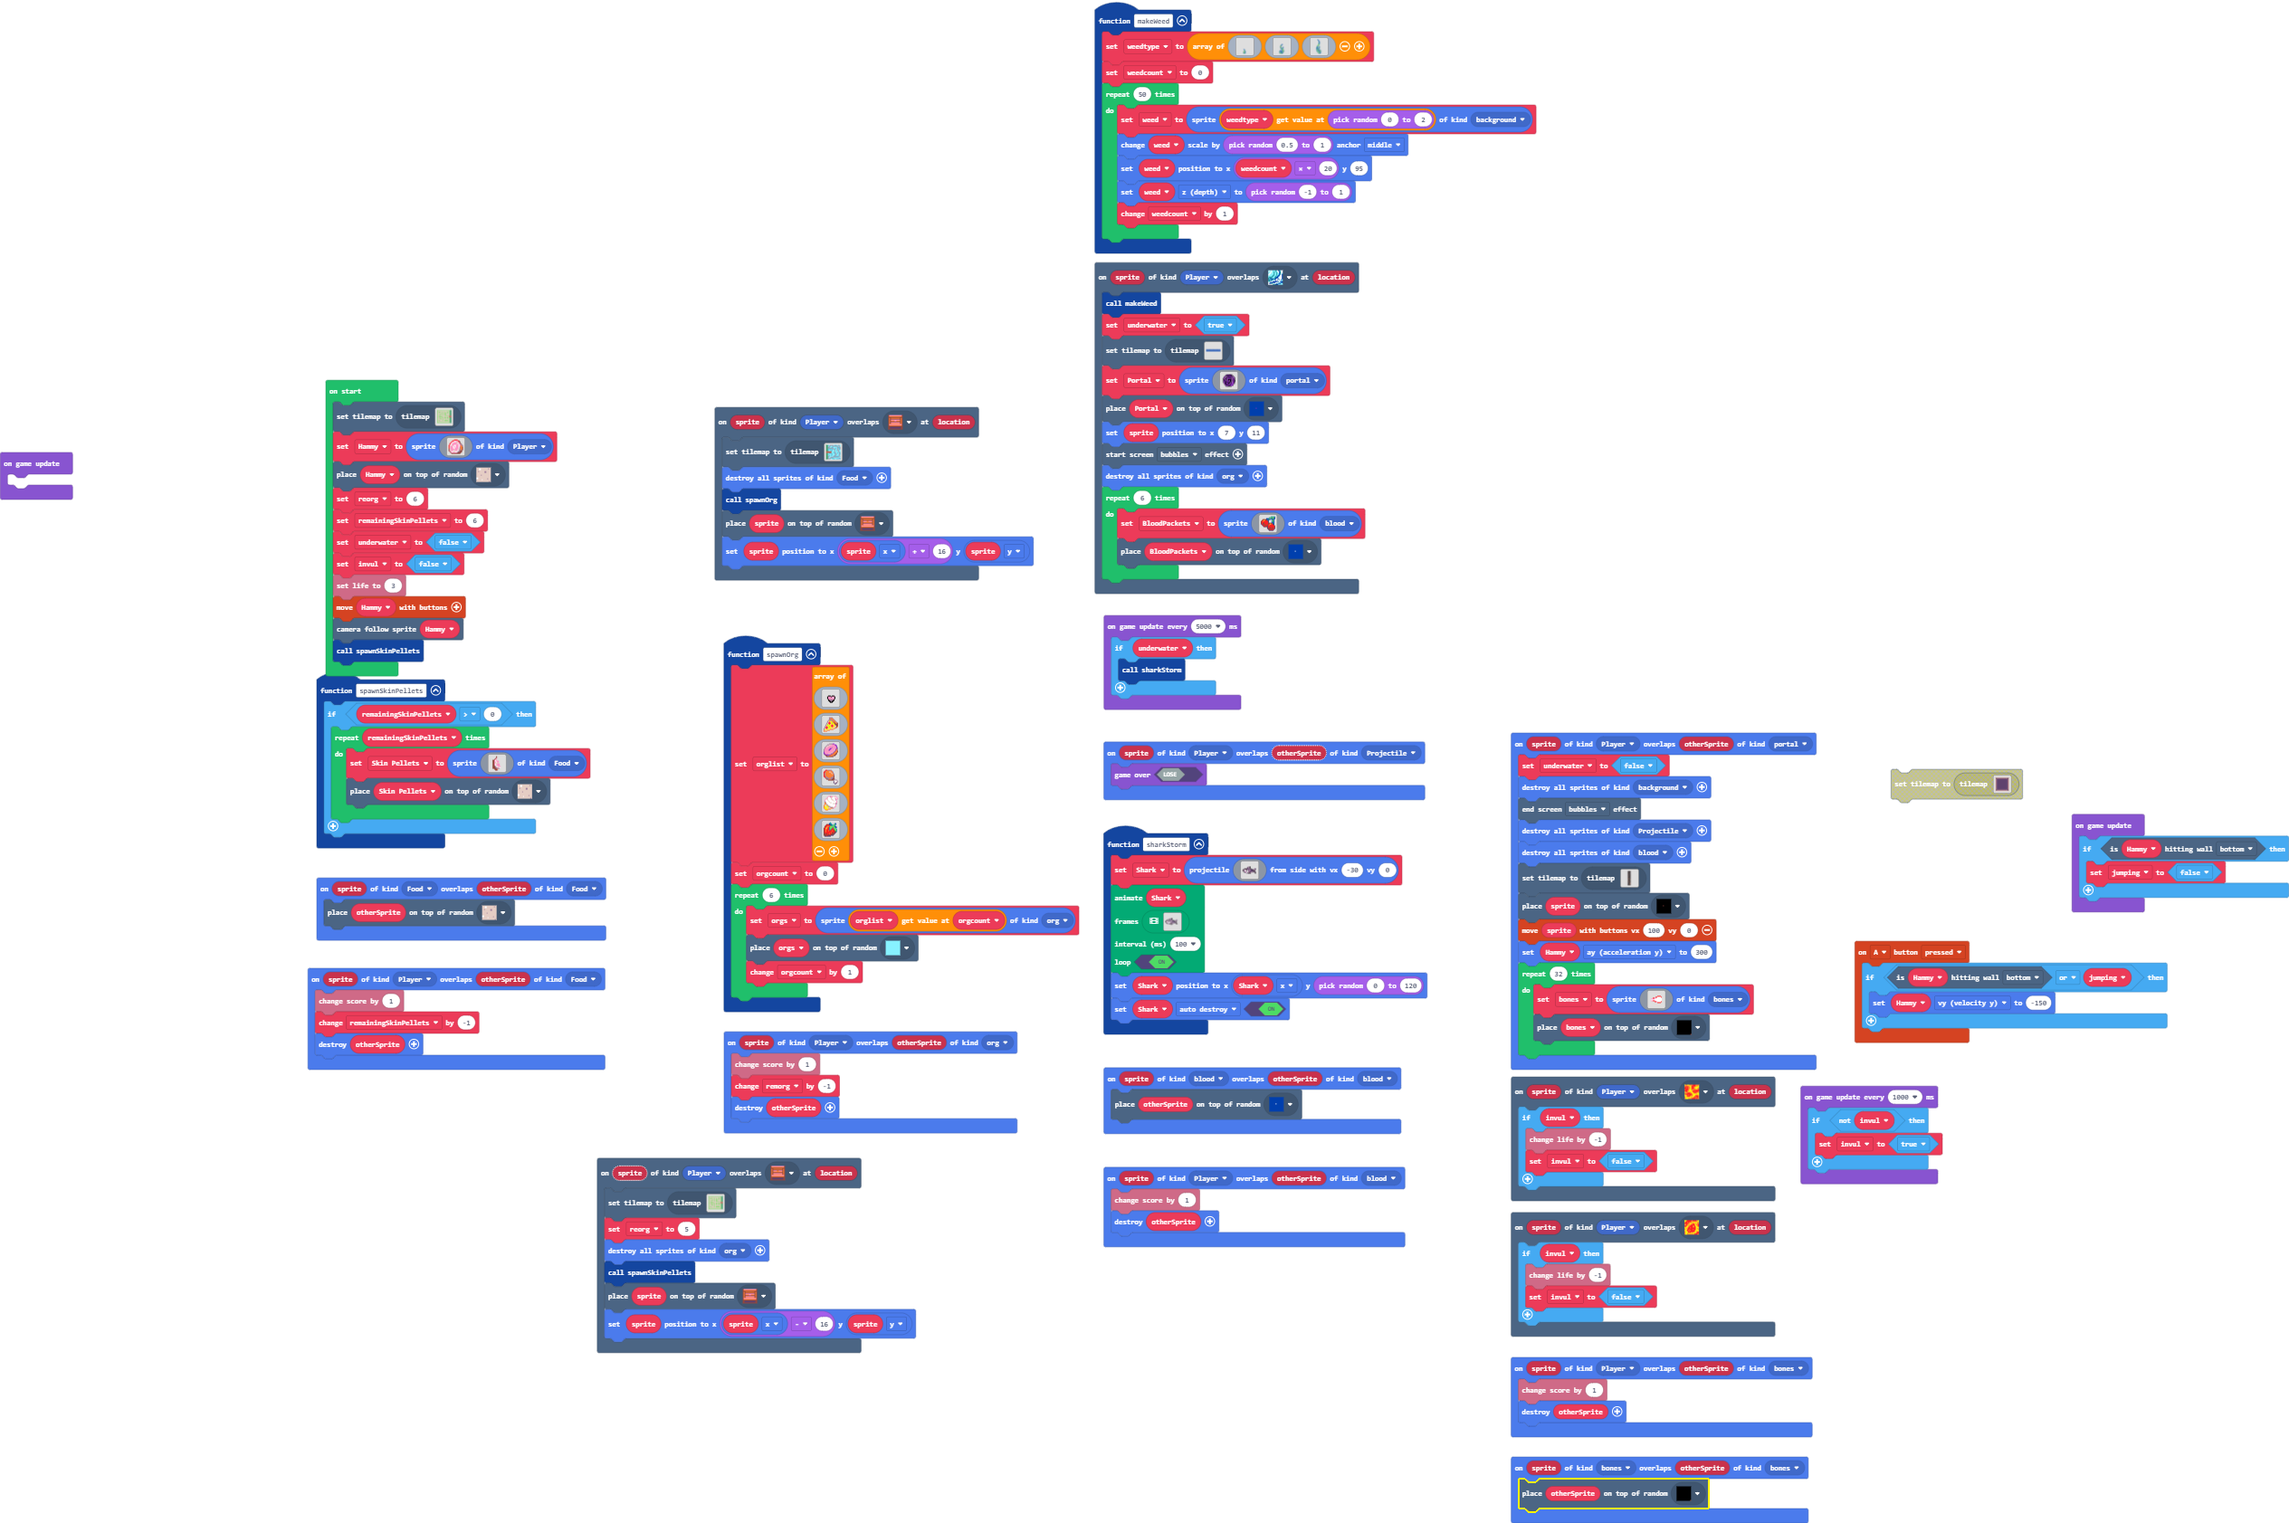
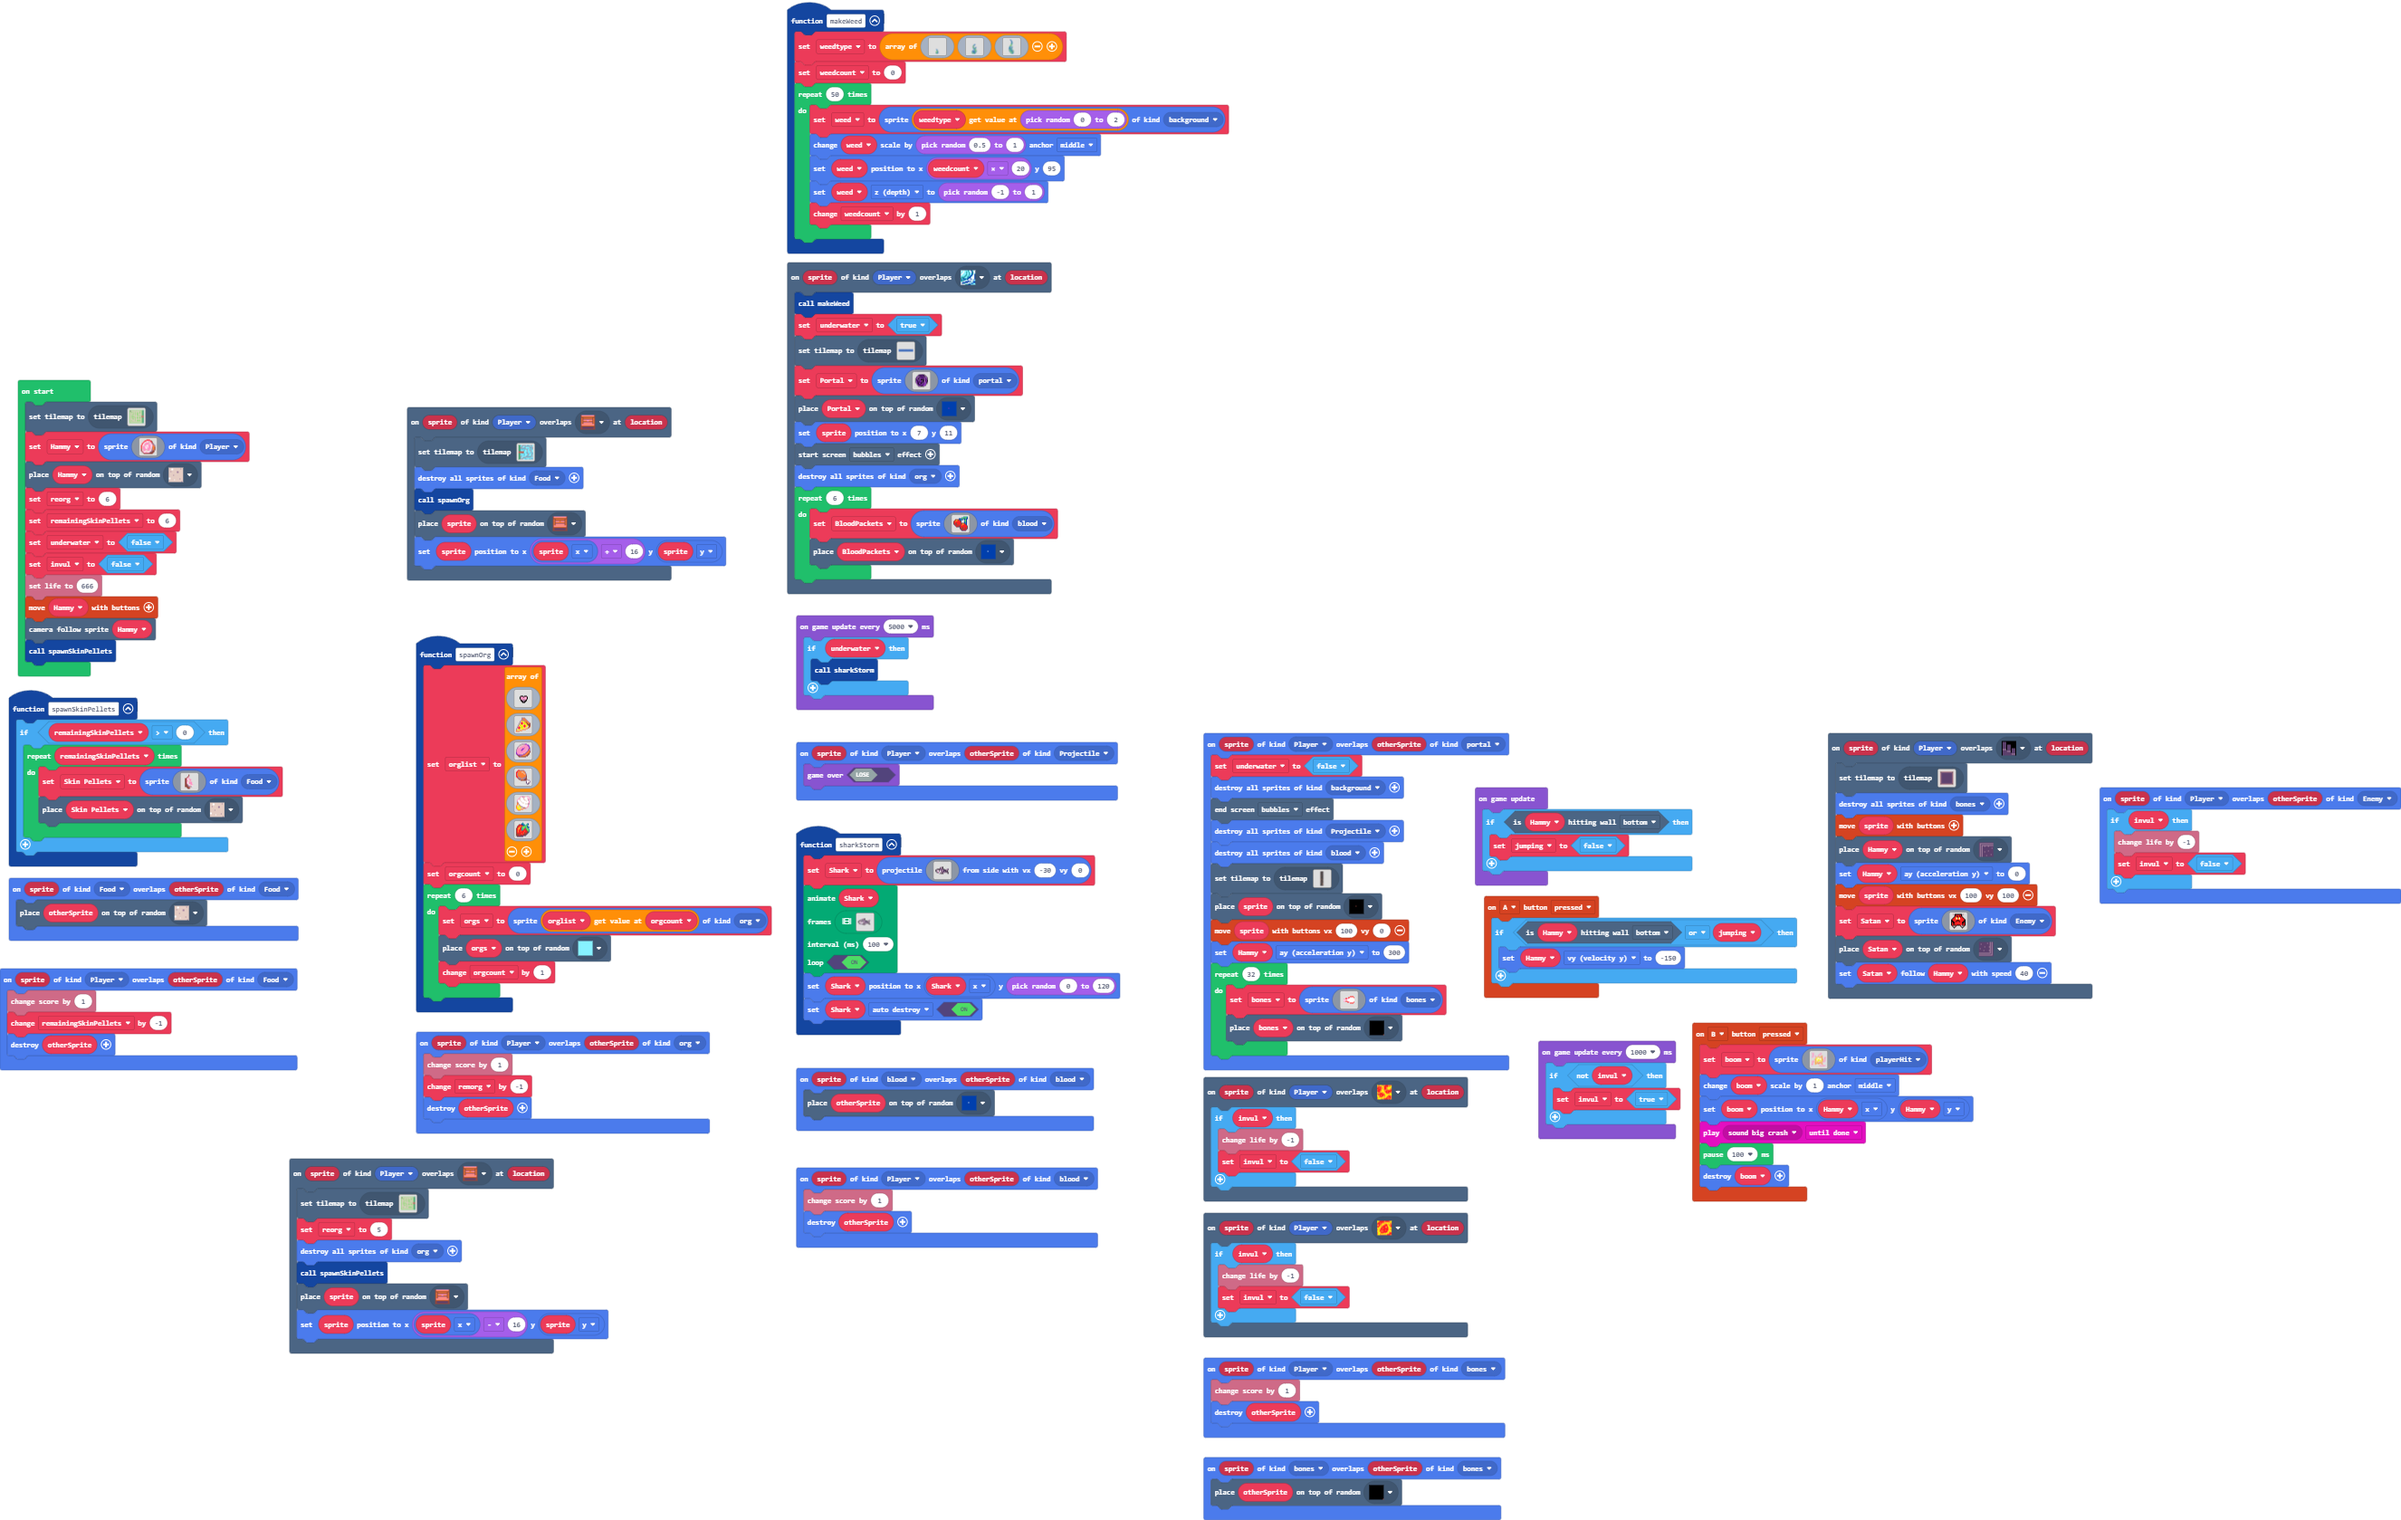
Update main.blocks, main.ts, tilemap.g.jres, tilemap.g.ts

diff --git a/tilemap.g.ts b/tilemap.g.ts
@@ -64,6 +64,14 @@ namespace myTiles {
     export const tile31 = image.ofBuffer(hex``);
     //% fixedInstance jres blockIdentity=images._tile
     export const tile12 = image.ofBuffer(hex``);
+    //% fixedInstance jres blockIdentity=images._tile
+    export const tile32 = image.ofBuffer(hex``);
+    //% fixedInstance jres blockIdentity=images._tile
+    export const tile33 = image.ofBuffer(hex``);
+    //% fixedInstance jres blockIdentity=images._tile
+    export const tile34 = image.ofBuffer(hex``);
+    //% fixedInstance jres blockIdentity=images._tile
+    export const tile35 = image.ofBuffer(hex``);
 
     helpers._registerFactory("tilemap", function(name: string) {
         switch(helpers.stringTrim(name)) {
@@ -86,25 +94,6 @@ namespace myTiles {
 . . . . . . . . . . . . . . . . 
 . . . . . . . . . . . . . . . . 
 `, [myTiles.transparency16], TileScale.Sixteen);
-            case "level1":
-            case "level1":return tiles.createTilemap(hex`12001000010101010101010101010101010101010303010202020202020202020202020202010303010201010201020102010202010102010303010201010201020102010102010102010303010202020201020102010102010202010303010201010101020102010102020202010303010202020202020102010101010102010303010201010101020202020202020202040405010201010101010102010102010102040405010202020202020102010102010102010303010201010101020102010102010102010303010202020101020102020202020202010303010201020202020102010101010102010303010201010201020102010101010102010303010202020202020202020202020202010303010101010101010101010101010101010303`, img`
-2 2 2 2 2 2 2 2 2 2 2 2 2 2 2 2 2 2 
-2 . . . . . . . . . . . . . . 2 2 2 
-2 . 2 2 . 2 . 2 . 2 . . 2 2 . 2 2 2 
-2 . 2 2 . 2 . 2 . 2 2 . 2 2 . 2 2 2 
-2 . . . . 2 . 2 . 2 2 . 2 . . 2 2 2 
-2 . 2 2 2 2 . 2 . 2 2 . . . . 2 2 2 
-2 . . . . . . 2 . 2 2 2 2 2 . 2 2 2 
-2 . 2 2 2 2 . . . . . . . . . . . . 
-2 . 2 2 2 2 2 2 . 2 2 . 2 2 . . . . 
-2 . . . . . . 2 . 2 2 . 2 2 . 2 2 2 
-2 . 2 2 2 2 . 2 . 2 2 . 2 2 . 2 2 2 
-2 . . . 2 2 . 2 . . . . . . . 2 2 2 
-2 . 2 . . . . 2 . 2 2 2 2 2 . 2 2 2 
-2 . 2 2 . 2 . 2 . 2 2 2 2 2 . 2 2 2 
-2 . . . . . . . . . . . . . . 2 2 2 
-2 2 2 2 2 2 2 2 2 2 2 2 2 2 2 2 2 2 
-`, [myTiles.transparency16,sprites.castle.tileGrass2,sprites.castle.tilePath5,sprites.builtin.forestTiles0,sprites.dungeon.stairLadder,myTiles.tile3], TileScale.Sixteen);
             case "level5":
[1 lines of base64/hex data omitted]
 . . . . . . . . . . . . . . . . 
@@ -244,7 +233,7 @@ namespace myTiles {
 . . . . . . . . . . . . . . . . 
 `, [myTiles.transparency16], TileScale.Sixteen);
             case "level4":
[2 lines of base64/hex data omitted]
 ................
 ................
 2222222.........
@@ -325,7 +314,28 @@ namespace myTiles {
 ........222222..
 .22.............
 .....22222222..2
-`, [myTiles.transparency16,sprites.builtin.forestTiles10,sprites.builtin.forestTiles5,sprites.builtin.forestTiles7,sprites.builtin.forestTiles6,sprites.builtin.forestTiles9,sprites.builtin.forestTiles11,sprites.builtin.forestTiles13,myTiles.tile11,sprites.builtin.forestTiles8,sprites.builtin.forestTiles12,sprites.dungeon.hazardLava0,sprites.dungeon.hazardLava1,myTiles.tile12], TileScale.Sixteen);
+................
+................
+`, [myTiles.transparency16,sprites.builtin.forestTiles10,sprites.builtin.forestTiles5,sprites.builtin.forestTiles7,sprites.builtin.forestTiles6,sprites.builtin.forestTiles9,sprites.builtin.forestTiles11,sprites.builtin.forestTiles13,myTiles.tile11,sprites.builtin.forestTiles8,sprites.builtin.forestTiles12,sprites.dungeon.hazardLava0,sprites.dungeon.hazardLava1,myTiles.tile12,sprites.builtin.forestTiles15,myTiles.tile35], TileScale.Sixteen);
+            case "level1":
+            case "level1":return tiles.createTilemap(hex`12001000010101010101010101010101010101010303010602020202020202020202020202010303010201010201020102010202010102010303010201010201020102010102010102010303010202020201020102010102010202010303010201010101020102010102020202010303010202020202020102010101010102010303010201010101020202020202020202040405010201010101010102010102010102040405010202020202020102010102010102010303010201010101020102010102010102010303010202020101020102020202020202010303010201020202020102010101010102010303010201010201020102010101010102010303010202020202020202020202020202010303010101010101010101010101010101010303`, img`
+2 2 2 2 2 2 2 2 2 2 2 2 2 2 2 2 2 2 
+2 . . . . . . . . . . . . . . 2 2 2 
+2 . 2 2 . 2 . 2 . 2 . . 2 2 . 2 2 2 
+2 . 2 2 . 2 . 2 . 2 2 . 2 2 . 2 2 2 
+2 . . . . 2 . 2 . 2 2 . 2 . . 2 2 2 
+2 . 2 2 2 2 . 2 . 2 2 . . . . 2 2 2 
+2 . . . . . . 2 . 2 2 2 2 2 . 2 2 2 
+2 . 2 2 2 2 . . . . . . . . . . . . 
+2 . 2 2 2 2 2 2 . 2 2 . 2 2 . . . . 
+2 . . . . . . 2 . 2 2 . 2 2 . 2 2 2 
+2 . 2 2 2 2 . 2 . 2 2 . 2 2 . 2 2 2 
+2 . . . 2 2 . 2 . . . . . . . 2 2 2 
+2 . 2 . . . . 2 . 2 2 2 2 2 . 2 2 2 
+2 . 2 2 . 2 . 2 . 2 2 2 2 2 . 2 2 2 
+2 . . . . . . . . . . . . . . 2 2 2 
+2 2 2 2 2 2 2 2 2 2 2 2 2 2 2 2 2 2 
+`, [myTiles.transparency16,sprites.castle.tileGrass2,sprites.castle.tilePath5,sprites.builtin.forestTiles0,sprites.dungeon.stairLadder,myTiles.tile3,myTiles.tile35], TileScale.Sixteen);
         }
         return null;
     })
@@ -395,6 +405,14 @@ namespace myTiles {
             case "tile31":return tile31;
             case "myTile10":
             case "tile12":return tile12;
+            case "myTile30":
+            case "tile32":return tile32;
+            case "myTile31":
+            case "tile33":return tile33;
+            case "myTile32":
+            case "tile34":return tile34;
+            case "myTile33":
+            case "tile35":return tile35;
         }
         return null;
     })

diff --git a/main.ts b/main.ts
@@ -4,6 +4,7 @@ namespace SpriteKind {
     export const blood = SpriteKind.create()
     export const portal = SpriteKind.create()
     export const bones = SpriteKind.create()
+    export const playerHit = SpriteKind.create()
 }
 scene.onOverlapTile(SpriteKind.Player, assets.tile`myTile1`, function (sprite, location) {
     tiles.setCurrentTilemap(tilemap`level0`)
@@ -51,6 +52,40 @@ sprites.onOverlap(SpriteKind.Player, SpriteKind.org, function (sprite, otherSpri
     remorg += -1
     sprites.destroy(otherSprite)
 })
+controller.B.onEvent(ControllerButtonEvent.Pressed, function () {
+    boom = sprites.create(img`
+        .........................
+        .3333..........333.......
+        .333...........333.......
+        ..33.........3333........
+        ..33........333..........
+        ..33..3....33.....4......
+        .333..33.........44......
+        .33...3d3..44..44d4......
+        .33....35345544dd44....33
+        .......3d5d11d55d44...333
+        .......455111151154...33.
+        ......45555115111d44..33.
+        ......4d511555111554..33.
+        ......4451155555d554..33.
+        ..33...43d555d55ddd4..33.
+        .333..455d555ddd554.3333.
+        .3333.455d35dd3d554.33...
+        .33...44dd4ddd43dd4......
+        .33....45444444444.......
+        .33...454..444...44......
+        333...44..........44.....
+        333......................
+        .............3333..333333
+        ...............33333333..
+        .........................
+        `, SpriteKind.playerHit)
+    boom.changeScale(1, ScaleAnchor.Middle)
+    boom.setPosition(Hammy.x, Hammy.y)
+    music.play(music.melodyPlayable(music.bigCrash), music.PlaybackMode.UntilDone)
+    pause(100)
+    sprites.destroy(boom)
+})
 controller.A.onEvent(ControllerButtonEvent.Pressed, function () {
     if (Hammy.isHittingTile(CollisionDirection.Bottom) || jumping) {
         Hammy.vy = -150
@@ -64,6 +99,34 @@ scene.onOverlapTile(SpriteKind.Player, sprites.dungeon.hazardLava0, function (sp
 })
 sprites.onOverlap(SpriteKind.bones, SpriteKind.bones, function (sprite, otherSprite) {
     tiles.placeOnRandomTile(otherSprite, assets.tile`myTile10`)
+})
+scene.onOverlapTile(SpriteKind.Player, assets.tile`myTile33`, function (sprite, location) {
+    tiles.setCurrentTilemap(tilemap`level5`)
+    sprites.destroyAllSpritesOfKind(SpriteKind.bones)
+    controller.moveSprite(sprite)
+    tiles.placeOnRandomTile(Hammy, assets.tile`myTile17`)
+    Hammy.ay = 0
+    controller.moveSprite(sprite, 100, 100)
+    Satan = sprites.create(img`
+        . d b d f f f f f f f f d b d . 
+        . . d b f 2 2 2 2 2 2 f b d . . 
+        . . . d f 2 f 2 2 f 2 f d . . . 
+        . . . f 2 2 2 f 2 2 f 2 f . . . 
+        . . f 2 2 5 1 2 5 1 2 2 2 f . . 
+        . f 2 2 2 5 1 2 5 1 2 2 2 2 f . 
+        f 2 2 2 2 2 2 2 2 2 2 2 2 2 2 f 
+        f f 2 2 2 2 f f f 2 2 2 2 2 f f 
+        f f f 2 2 f 2 2 2 f 2 2 2 f f f 
+        f 2 f f 2 2 2 2 2 2 2 2 f f 2 f 
+        f 2 f f 2 2 2 2 2 2 2 2 f f 2 f 
+        f 2 2 2 2 2 2 2 2 2 2 2 2 2 2 f 
+        f 2 f f f 2 f f f f 2 b f f 2 f 
+        . f d d d f . . . . f d d d f . 
+        . . f b f . . . . . . f b f . . 
+        . . . f . . . . . . . . f . . . 
+        `, SpriteKind.Enemy)
+    tiles.placeOnRandomTile(Satan, assets.tile`myTile15`)
+    Satan.follow(Hammy, 40)
 })
 function spawnOrg () {
     orglist = [
@@ -561,6 +624,12 @@ sprites.onOverlap(SpriteKind.Player, SpriteKind.blood, function (sprite, otherSp
     info.changeScoreBy(1)
     sprites.destroy(otherSprite)
 })
+sprites.onOverlap(SpriteKind.Player, SpriteKind.Enemy, function (sprite, otherSprite) {
+    if (invul) {
+        info.changeLifeBy(-1)
+        invul = false
+    }
+})
 let Skin_Pellets: Sprite = null
 let weed: Sprite = null
 let weedcount = 0
@@ -570,7 +639,9 @@ let bones: Sprite = null
 let orgs: Sprite = null
 let orgcount = 0
 let orglist: Image[] = []
+let Satan: Sprite = null
 let jumping = false
+let boom: Sprite = null
 let remorg = 0
 let BloodPackets: Sprite = null
 let Portal: Sprite = null
@@ -586,13 +657,10 @@ reorg = 6
 remainingSkinPellets = 6
 underwater = false
 invul = false
-info.setLife(3)
+info.setLife(666)
 controller.moveSprite(Hammy)
 scene.cameraFollowSprite(Hammy)
 spawnSkinPellets()
-game.onUpdate(function () {
-	
-})
 game.onUpdate(function () {
     if (Hammy.isHittingTile(CollisionDirection.Bottom)) {
         jumping = false
